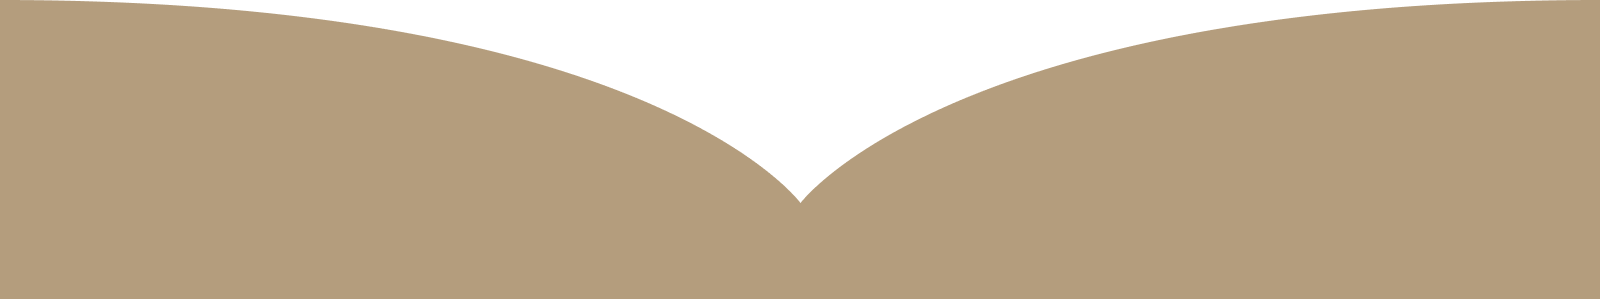
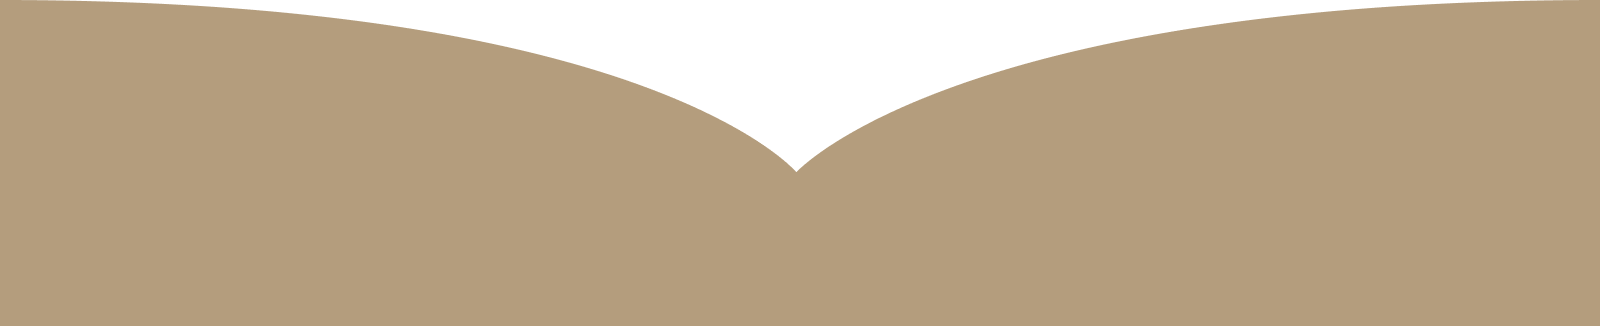
added animation to aodaiwebsite

Changed region(s): [[0.1562, 0.0301, 0.8438, 0.6622], [0.8438, 0.0, 0.9375, 0.0301], [0.0625, 0.0, 0.1562, 0.0301]]

diff --git a/index.html b/index.html
@@ -76,7 +76,7 @@
         </section>
 
         <section id="introduction">
-            <div class="img-full-width">
+            <div class="nma-onscroll-fadein img-full-width">
                 <img src="img/theintroduction.png" alt="introduction section" width="7721" height="3100">
                 <div class="title-centered">
                     <h1>At a glance</h1>
@@ -86,7 +86,7 @@
         </section>
 
         <section id="history">
-            <div class="history_content">
+            <div class="nma-onscroll-fadein history_content">
                 <div class="one-third left-img parallax-onscroll" data-parallax-speed="-.2">
                     <img src="img/left_1.png" alt="placeholder" width="1300" height="679">
                     <img src="img/left_2.png" alt="placeholder" width="1300" height="679">
@@ -95,7 +95,7 @@
                     <img src="img/left_5.png" alt="placeholder" width="1300" height="679">
                 </div>
                 <div class="one-third description parallax-onscroll" data-parallax-speed="0">
-                    <p class="drop-cap">The history of the creation and development of the Vietnamese ao dai has been studied and updated by researchers for years now. The ups, downs and the constant changes have formed a distinctive Vietnamese cultural trait. The ao dai’s historical and cultural values have been gradually reinforced by the Vietnamese people while supported and cherished by their international friends. </p>
+                    <p class="drop-cap">T</p><p>he history of the creation and development of the Vietnamese ao dai has been studied and updated by researchers for years now. The ups, downs and the constant changes have formed a distinctive Vietnamese cultural trait. The ao dai’s historical and cultural values have been gradually reinforced by the Vietnamese people while supported and cherished by their international friends.</p>
                     <blockquote>
                         <p>The ao dai covers everything, hides nothing.</p>
                     </blockquote>
@@ -112,7 +112,7 @@
         </section>
         
         <section id="history">
-            <div class="img-full-width">
+            <div class="nma-onscroll-fadein img-full-width">
                 <img src="img/thehistory.png" alt="history section" width="3941" height="1970">
                 <div class="title-centered">
                     <h1>How it all began</h1>
@@ -122,7 +122,7 @@
         </section>
 
         <section>
-            <!-- Vertical TImeline Start -->
+            <!-- Vertical Timeline Start -->
             <div class="vertical_timeline">
                 <!-- Timeline Lists -->
                 <ul class="timeline">
@@ -141,7 +141,7 @@
                                 <div class="image">
                                     <img src="img/fourpiece.png" alt="four piece ao dai" width="500" height="700">
                                 </div>
-                                <div class="context">
+                                <div class="nma-onscroll-movein-fromright context">
                                     <ul>
                                         <li>Four front-and-back panels</li>
                                         <li>A long, flowing skirt under the tunic</li>
@@ -167,7 +167,7 @@
                                 <div class="image">
                                     <img src="img/fivepiece.png" alt="five piece ao dai" width="500" height="700">
                                 </div>
-                                <div class="context">                   
+                                <div class="nma-onscroll-movein-fromleft context">                   
                                     <ul>
                                         <li>Five panels—two front, two back, and one hidden inner flap</li>
                                         <li>A long row of buttons runs down the right side of the tunic</li>
@@ -193,7 +193,7 @@
                                 <div class="image">
                                     <img src="img/royal.png" alt="royal ao dai" width="500" height="700">
                                 </div>
-                                <div class="context">
+                                <div class="nma-onscroll-movein-fromright context">
                                     <ul>
                                         <li>Made from luxurious fabric (silk or brocade)</li>
                                         <li>High Mandarin collar</li>
@@ -220,7 +220,7 @@
                                 <div class="image">
                                     <img src="img/lemur.png" alt="le mur ao dai" width="500" height="700">
                                 </div>
-                                <div class="context">
+                                <div class="nma-onscroll-movein-fromleft context">
                                     <ul>
                                         <li>Two long panels (front & back)</li>
                                         <li>Closer fit to the body, flared bottom panels for movement</li>
@@ -248,7 +248,7 @@
                                 <div class="image">
                                     <img src="img/highcollared.png" alt="high collared ao dai" width="300" height="500">
                                 </div>
-                                <div class="context">
+                                <div class="nma-onscroll-movein-fromright context">
                                 <ul>
                                     <li>Front and back panels split high at the waist</li>
                                     <li>Tall Mandarin-style collar (about 3–5 cm)</li>
@@ -276,7 +276,7 @@
                                 <div class="image">
                                     <img src="img/boatneck.png" alt="boat neck ao dai" width="500" height="700">
                                 </div>
-                                <div class="context">
+                                <div class="nma-onscroll-movein-fromleft context">
                                     <ul>
                                         <li>Rounded, U-shaped neckline</li>
                                         <li>High side slits paired with flowing silk pants for movement</li>
@@ -302,7 +302,7 @@
                                 <div class="image">
                                     <img src="img/raglan.png" alt="raglan sleeves ao dai" width="300" height="500">
                                 </div>
-                                <div class="context">
+                                <div class="nma-onscroll-movein-fromright context">
                                     <ul>
                                         <li>Diagonal sleeve seams running from the neckline to the underarm, with no distinct shoulder seam</li>
                                         <li>More comfortable and flattering fit</li>
@@ -329,7 +329,7 @@
                                 <div class="image">
                                     <img src="img/hippie.png" alt="hippie ao dai" width="500" height="700">
                                 </div>
-                                <div class="context">
+                                <div class="nma-onscroll-movein-fromleft context">
                                     <ul>
                                         <li>A lower or different neckline style</li>
                                         <li>Bold prints & patterns reflecting the hippie culture at that time</li>
@@ -357,7 +357,7 @@
                                 <div class="image">
                                     <img src="img/painted.png" alt="painted ao dai" width="500" height="700">
                                 </div>
-                                <div class="context">
+                                <div class="nma-onscroll-movein-fromright context">
                                     <ul>
                                         <li>Unique, hand-painted designs, one-of-a-kind pattern</li>
                                         <li>High-quality fabrics to hold paint</li>
@@ -385,7 +385,7 @@
                                 <div class="image">
                                     <img src="img/brocade.png" alt="brocade ao dai" width="500" height="700">
                                 </div>
-                                <div class="context">
+                                <div class="nma-onscroll-movein-fromleft context">
                                     <ul>
                                         <li>Rich brocade fabric, intricate pattern</li>
                                         <li>Textured surface, motifs such as florals, phoenixes, dragons, geometric designs</li>
@@ -427,7 +427,7 @@
         </section>
 
         <section id="symbol">
-            <div class="img-full-width">
+            <div class="nma-onscroll-fadein img-full-width">
                 <img src="img/thesymbol.png" alt="symbol section" width="3439" height="1327">
                 <div class="title-centered">
                     <h1>Where tradition breaths</h1>
@@ -438,11 +438,11 @@
 
         <section id="cultural symbol">
             <div class="row">
-                <div class="one-half">
+                <div class="nma-onscroll-movein-fromleft one-half">
                     <img src="img/symbol_cultural.png" alt="cultural symbolism" width="1300" height="679">
                 </div>
             
-                <div class="one-half text">
+                <div class="nma-onscroll-movein-fromright one-half text">
                     <h3>THE CULTURAL WHISPERS</h3>
                     <p>The ao dai is a powerful symbol of Vietnamese culture, embodying <b>national identity and elegance.</b> Evolving from traditional to modern styles, it reflects the nation's <b>continuity and adaptation.</b> Since 1975, it has served as a <b>unifying emblem</b> of the Vietnamese spirit, representing <b>resilience and cultural pride,</b> and is now recognized globally as a distinctive national ambassador.</p>
                 </div>
@@ -451,11 +451,11 @@
 
         <section id="social symbol">
             <div class="row swapped">
-                <div class="one-half">
+                <div class="nma-onscroll-movein-fromright one-half">
                     <img src="img/symbol_social.png" alt="social symbolism" width="1300" height="679">
                 </div>
 
-                <div class="one-half text">
+                <div class="nma-onscroll-movein-fromleft one-half text">
                     <h3>A SILENT CODE OF SOCIETY</h3>
                     <p>
                         The ao dai is a powerful <b>social symbol</b> in Vietnam, reflecting the occasion and the wearer's role.

diff --git a/css/style.css b/css/style.css
@@ -61,7 +61,7 @@ TABLE OF CONTENTS
     
     --color-white: #ffffff;
     --color-black: #000000;
-    --color-beige: rgb(238, 231, 213);
+    --color-beige: rgb(242, 235, 219);
     --color-black-80: rgb(0,0,0,.8);
     --color-black-70: rgb(0,0,0,.7);
     --color-black-60: rgb(0,0,0,.6);
@@ -77,10 +77,10 @@ TABLE OF CONTENTS
     --color-darkbrown-70: rgb(92, 74, 60, .7);
     --color-darkbrown-100: rgb(92, 74, 60, 1);
 
-    --color-brown-10: rgb(143, 119, 86, .1);
-    --color-brown-50: rgb(143, 119, 86, .5);
-    --color-brown-80: rgb(143, 119, 86, .8);
-    --color-brown-100: rgb(143, 119, 86, 1);
+    --color-brown-10: rgb(180, 157, 125, .1);
+    --color-brown-50: rgb(180, 157, 125, .5);
+    --color-brown-80: rgb(180, 157, 125, .8);
+    --color-brown-100: rgb(180, 157, 125, 1);
 
     --color-lightbrown-50: rgb(205, 193, 169, .5);
     --color-lightbrown-80: rgb(205, 193, 169, .8);
@@ -141,7 +141,7 @@ TABLE OF CONTENTS
 body {
     font-family: var(--font-body);
     font-size: var(--body-font-size);
-    background-color: var(--color-body-background);
+    background-color: var(--color-brown-100);
     color: var(--color-body-text);
 }
 
@@ -827,47 +827,47 @@ body > * {
     justify-content: center;
     text-align: center;
     background-color: var(--color-darkbrown-100);
-  }
+}
 
-  .navbar-toggler {
+.navbar-toggler {
     border-color: transparent;
-  }
-  
-  .navbar-toggler,
-  .navbar-brand {
+}
+
+.navbar-toggler,
+.navbar-brand {
     position: relative;
     z-index: 1;
-  }
+}
 
-  .navbar-toggler:focus {
+.navbar-toggler:focus {
     box-shadow: none;
-  }
+}
 
-  .navbar-collapse .nav-link {
+.navbar-collapse .nav-link {
     font-size: 1.5em;
     letter-spacing: 2px;
     color: var(--color-beige);
-  }
+}
 
-  .navbar-collapse .nav-link:hover,
-  .navbar-collapse .nav-link.active {
+.navbar-collapse .nav-link:hover,
+.navbar-collapse .nav-link.active {
     color: var(--color-lightbrown-100);
-  }
+}
 
-  .nav-item:not(:last-child) {
+.nav-item:not(:last-child) {
     border-bottom: 1px solid var(--color-border);
     padding: 0.2em 4em;
-  }
+}
 
-  @media (min-width: 768px) {
+@media (min-width: 768px) {
     .nav-item:not(:last-child) {
-      padding: 0.5em 8em;
+        padding: 0.5em 8em;
     }
-  }
+    }
 
-  .navbar-collapse.show {
-    transition: all 0.5s;
-  }
+    .navbar-collapse.show {
+        transition: all 0.5s;
+    }
 
 .sound {
     padding-top: 1em;
@@ -1023,8 +1023,9 @@ body > * {
         float: left;
         font-size: 5rem;
         margin-right: 10px;
-        line-height: 0.8;
+        line-height: 0.7;
     }
+    font-family: var(--font-headings);
 }}
 
 .description blockquote p {
@@ -1081,6 +1082,14 @@ body > * {
     text-align: center;
 }
 
+.title-centered h1 {
+    color: var(--color-brown-100);
+}
+
+.title-centered h4 {
+    color: var(--color-darkbrown-50);
+}
+
 @keyframes zoomIn {
     0% {
         opacity: 0;
@@ -1132,8 +1141,7 @@ body > * {
     list-style: none;
     position: relative;
     margin: 0;
-    min-height: 510px;
-    
+    min-height: 550px;
 }
 
 
@@ -1154,7 +1162,7 @@ body > * {
 .timeline_progress_bar {
     background-color: var(--color-darkbrown-100);
     position: absolute;
-    height: 630vh;
+    height: 680vh;
     width: 10px;
     top: -5px;
     right: 50%;
@@ -1168,7 +1176,7 @@ body > * {
     position: absolute;
     height: 70%;
     width: 100%;
-    top: -3600px;
+    top: -3800px;
     border-radius: 20px;
     animation-timeline: scroll(root);
     animation-name: scaleProgress;
@@ -1458,7 +1466,7 @@ body > * {
     }
 
     .timeline-content {
-        padding-left: 2rem;
+        padding-left: 1rem;
     }
 }
 
@@ -1797,9 +1805,6 @@ body > * {
     }
 }
 
-  
-
-
 .context ul {
     list-style-type: none;
 }
@@ -1904,3 +1909,37 @@ body > * {
     height: auto;
     z-index: 1; */
 }
+
+/* ON SCROLL: FADE IN */
+.nma-onscroll-fadein {
+    animation: nma-fade-in both linear;
+    animation-timeline: view();
+    animation-range: entry 0% contain 50%;
+}
+@keyframes nma-fade-in {
+    0% { opacity: 0; }
+    70% { opacity: 1; }
+}
+
+/* ON SCROLL: MOVE IN FROM LEFT */
+.nma-onscroll-movein-fromleft {
+    animation: nma-movein-fromleft both linear;
+    animation-timeline: view();
+    animation-range: entry 0% contain 50%;
+}
+@keyframes nma-movein-fromleft {
+    0% { translate: -100px; opacity: 0; }
+    100% { translate: 0; opacity: 1; }
+}
+  
+/* ON SCROLL: MOVE IN FROM RIGHT */
+.nma-onscroll-movein-fromright {
+    animation: nma-movein-fromright both linear;
+    animation-timeline: view();
+    animation-range: entry 0% contain 50%;
+}
+@keyframes nma-movein-fromright {
+    0% { translate: 100px; opacity: 0; }
+    100% { translate: 0; opacity: 1; }
+}
+
